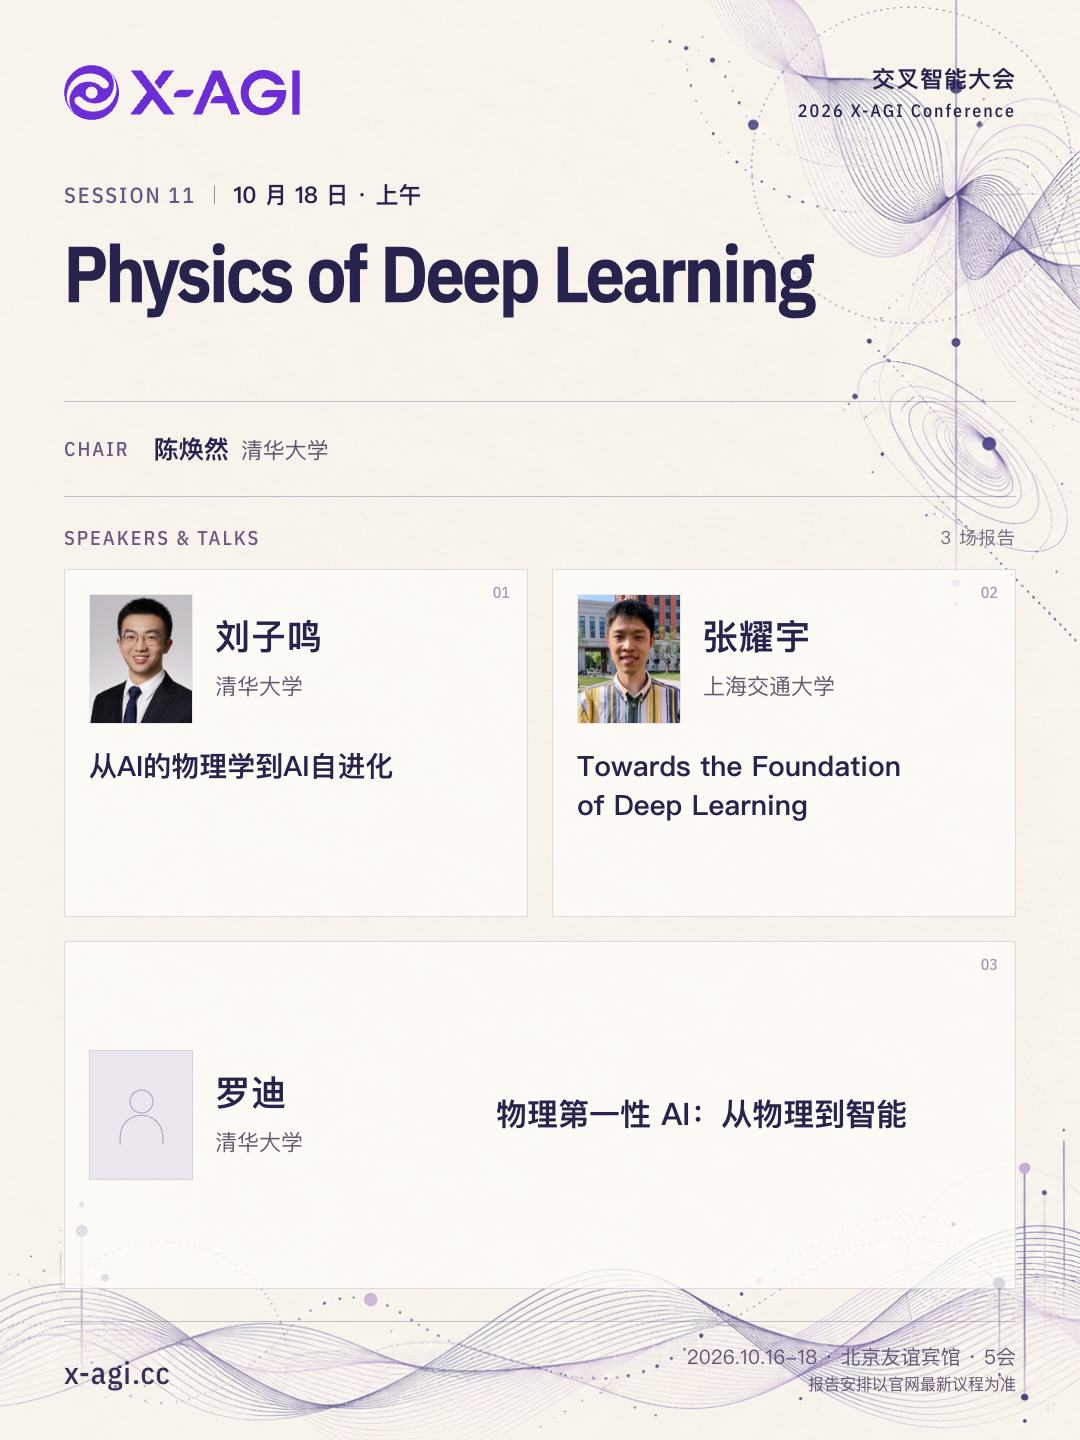
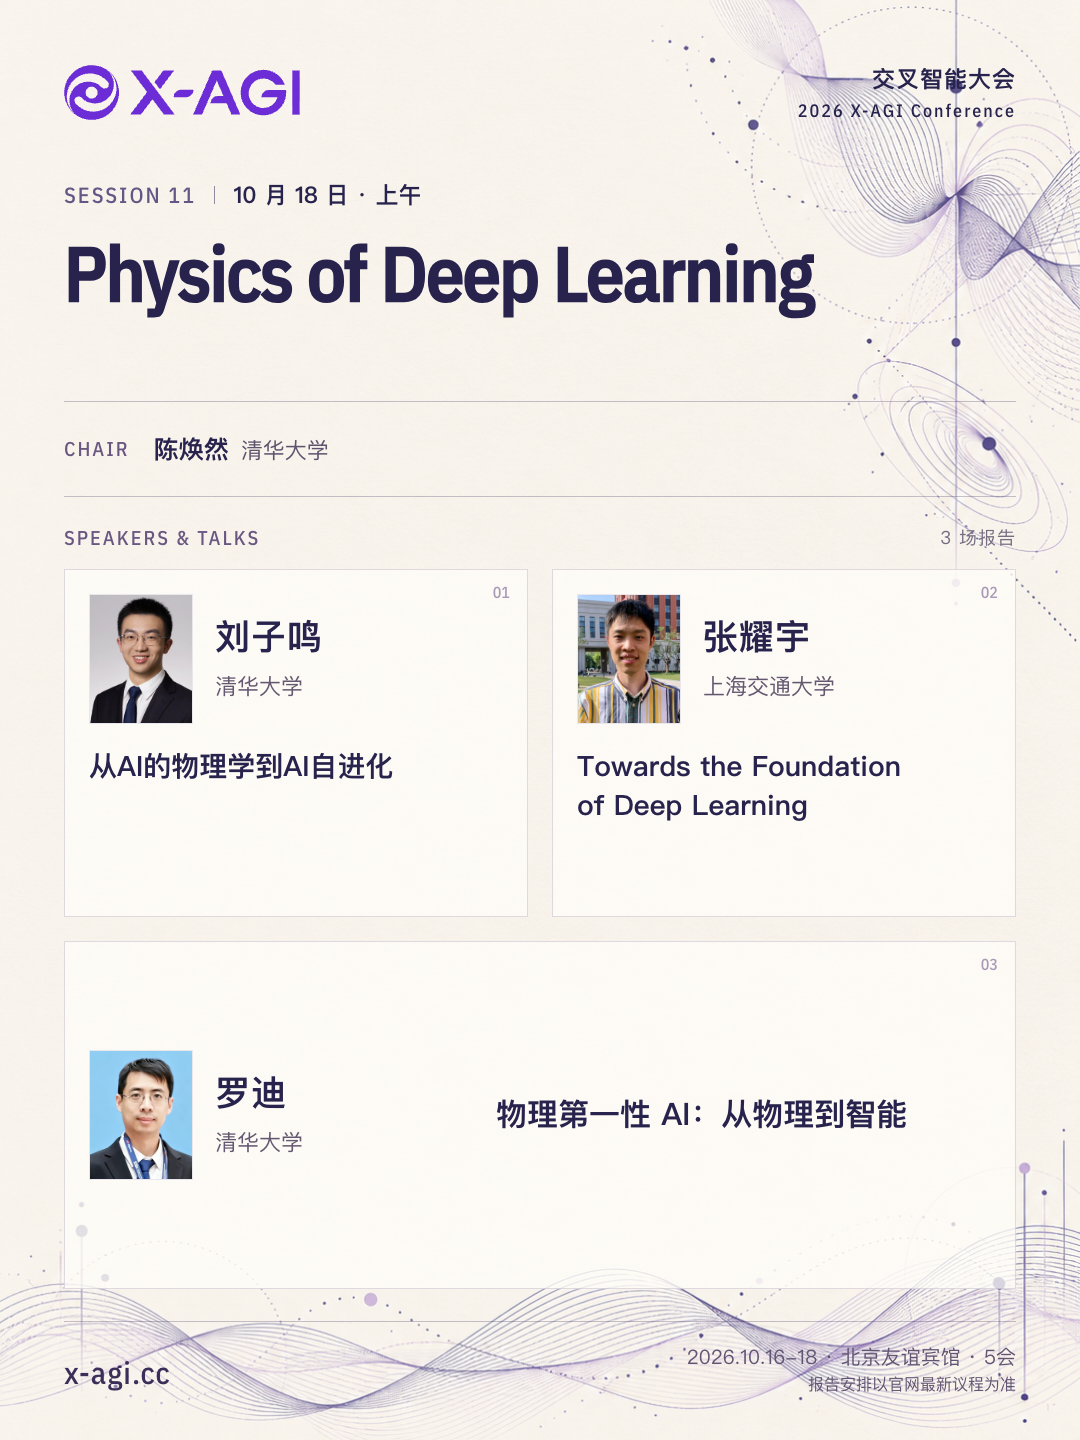
Add Luo Di portrait and refresh conference posters

Changed region(s): [[0.0611, 0.7188, 0.1833, 0.8438]]

diff --git a/src/data/conference2026-people.confirmed.ts b/src/data/conference2026-people.confirmed.ts
@@ -106,9 +106,10 @@ export const conference2026ConfirmedProfileUrls: ReadonlyMap<string, string> = n
   ['xie-tian', 'https://github.com/Unakar'],
 ]);
 
-// Portraits supplied directly by the organizer through 2026-10-06.
+// Organizer-supplied portraits, including Luo Di from the selected encyclopedia page on 2026-10-16.
 // Hu Tianyang's runtime image now uses his September 29 Speaker resubmission.
 export const conference2026ConfirmedPortraits: ReadonlyMap<string, string> = new Map([
+  ['luo-di', '/2026/people/luo-di-portrait.webp'],
   ['liu-zequn', '/2026/people/liu-zequn-portrait.webp'],
   ['liu-ziyin', '/2026/people/liu-ziyin-portrait.webp'],
   ['hu-tianyang', '/2026/people/hu-tianyang-portrait.webp'],

diff --git a/src/data/conference2026-people.test.ts b/src/data/conference2026-people.test.ts
@@ -89,7 +89,7 @@ describe('2026 public Chair and Speaker profiles', () => {
     const person = conference2026PersonForName('田润泽');
     assert.equal(person?.portraitStatus, 'missing');
     assert.equal(person?.portraitSrc, undefined);
-    assert.equal(conference2026People.filter((candidate) => !candidate.portraitSrc).length, 5);
+    assert.equal(conference2026People.filter((candidate) => !candidate.portraitSrc).length, 4);
     for (const name of ['谢天', '祝武']) {
       const candidate = conference2026PersonForName(name);
       assert.equal(candidate?.portraitStatus, 'missing');

diff --git a/src/data/portrait-framing.test.ts b/src/data/portrait-framing.test.ts
@@ -9,7 +9,7 @@ const nonHumanPortraits = new Set(['hu-yiwen', 'chen-huanran', 'yao-jinge']);
 describe('reviewed portrait framing', () => {
   it('frames every human portrait without stretching the source aspect ratio', async () => {
     const people = conference2026People.filter((person) => person.portraitSrc && !nonHumanPortraits.has(person.id));
-    assert.equal(people.length, 58);
+    assert.equal(people.length, 59);
     for (const person of people) {
       const style = portraitStyle(person.id);
       assert.equal(style.position, 'absolute', person.id);

diff --git a/src/data/home-speakers.test.ts b/src/data/home-speakers.test.ts
@@ -16,7 +16,7 @@ describe('homepage speaker lineup', () => {
     for (const speaker of homeSpeakers) {
       assert.equal(speaker.portraitSrc, conference2026PersonForName(speaker.name)?.portraitSrc);
     }
-    assert.equal(homeSpeakers.filter((speaker) => !speaker.portraitSrc).length, 4);
+    assert.equal(homeSpeakers.filter((speaker) => !speaker.portraitSrc).length, 3);
   });
 
   it('places missing portraits last, preserves order within both groups and keeps dual-role speaker links', () => {

diff --git a/src/data/portrait-framing.ts b/src/data/portrait-framing.ts
@@ -9,6 +9,7 @@ type PortraitCrop = {
   background?: string;
 };
 const circularPortraitCrops: Readonly<Record<string, PortraitCrop>> = {
+  'luo-di': { width: 1527, height: 1812, x: 164, y: 20, size: 1200 },
   'liu-huabin': { width: 138, height: 166, x: -14, y: 0, size: 166, background: '#fff' },
   'wang-haonan': { width: 3163, height: 3163, x: 0, y: 0, size: 3163 },
   'liu-zequn': { width: 2217, height: 2956, x: 0, y: 270, size: 2217 },
